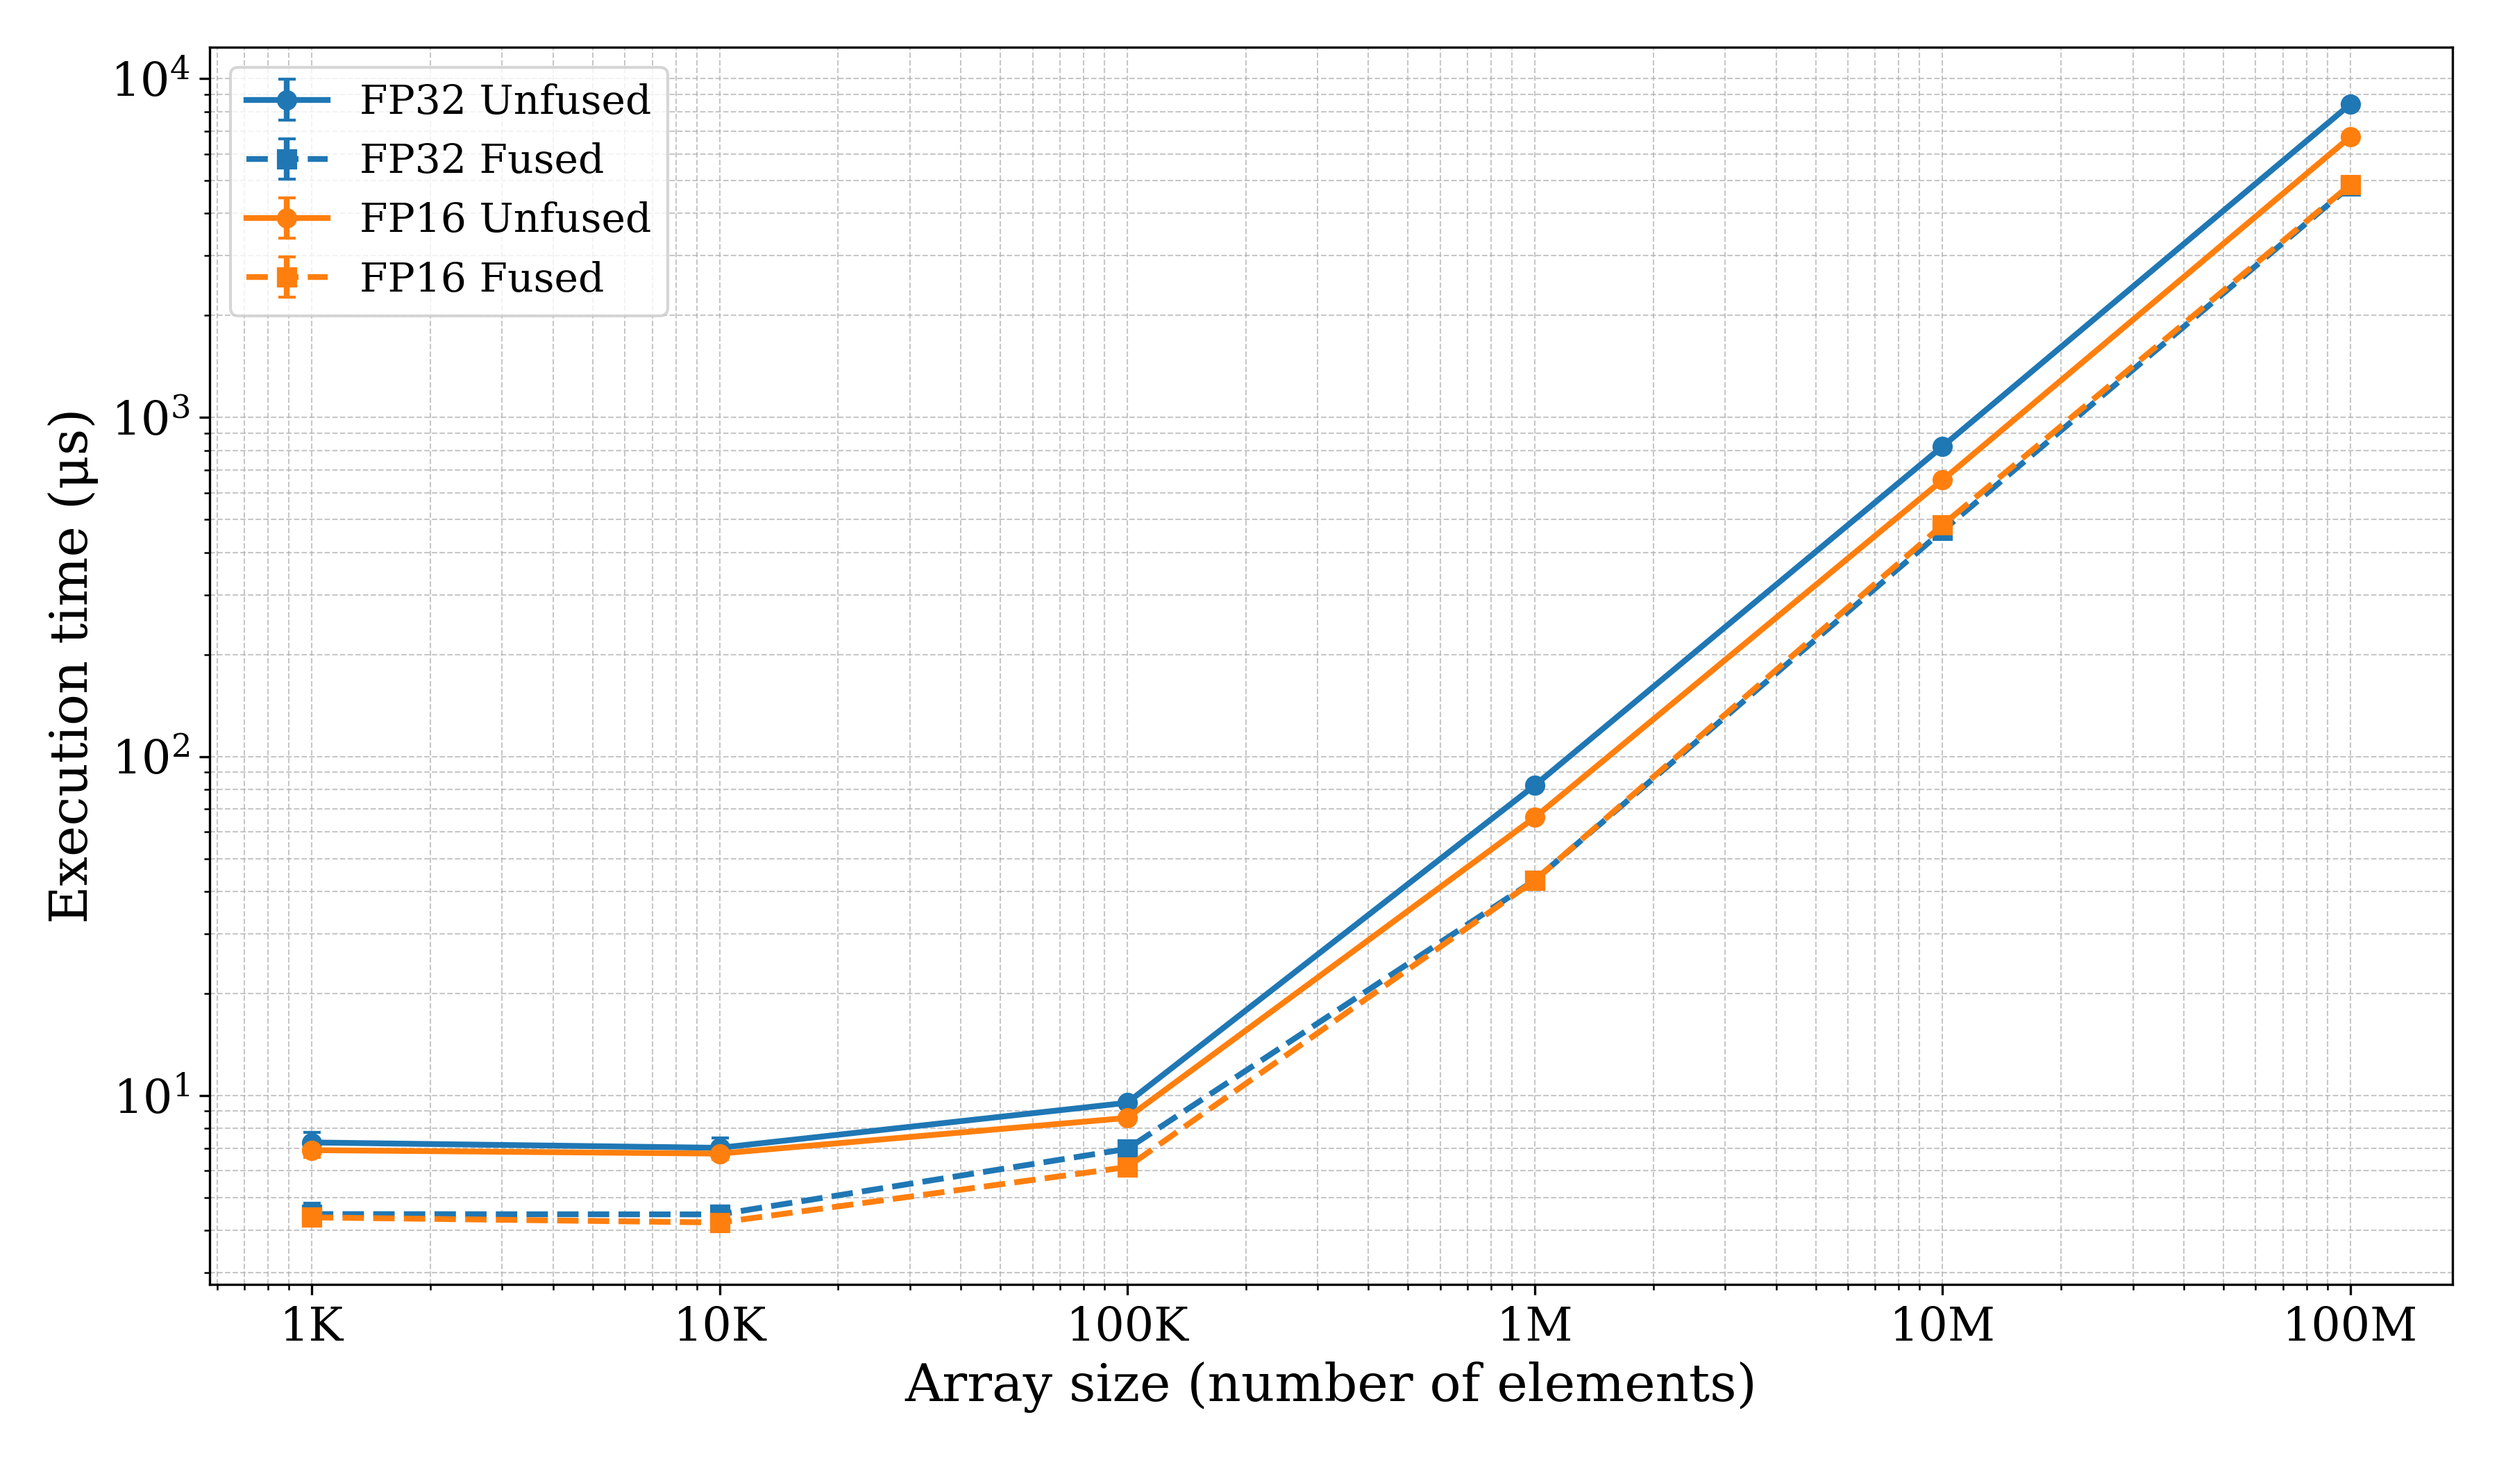
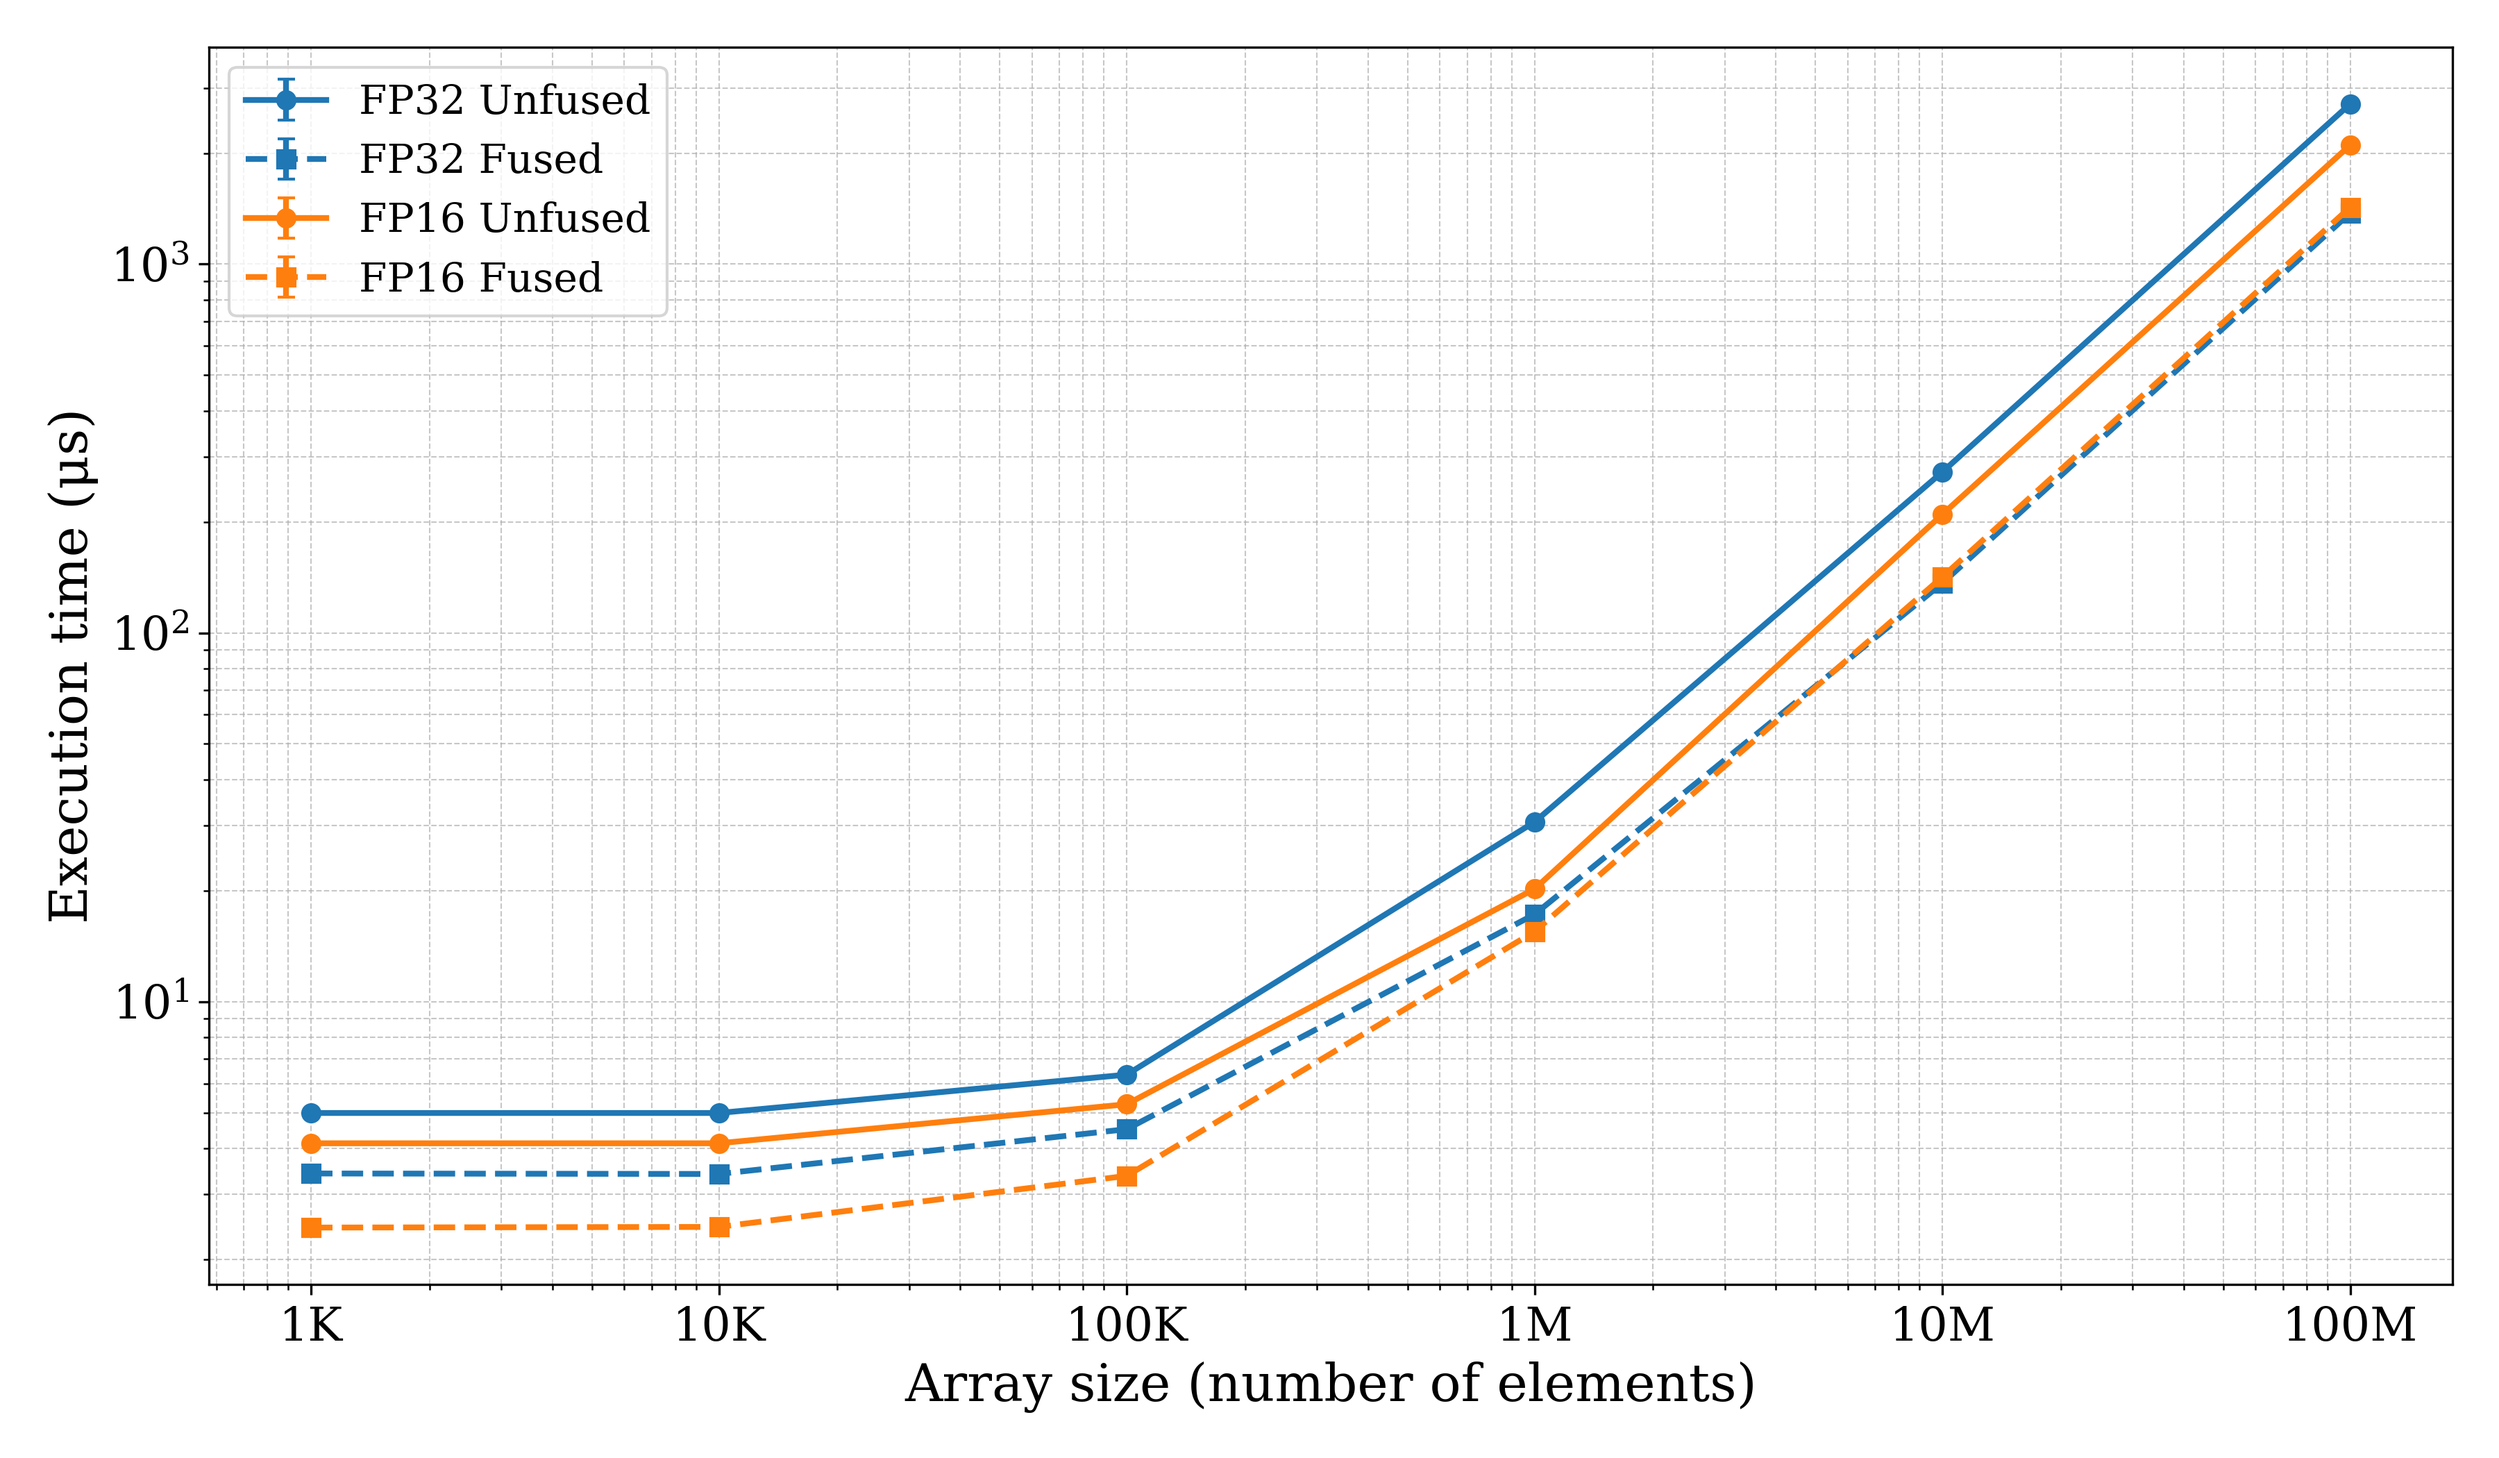
fresh map_reduce values and plots

diff --git a/scripts/data_rtx3080.py b/scripts/data_rtx3080.py
@@ -95,58 +95,74 @@ RELU_FP16 = {
 # Map Reduce - Naive Implementation
 # ==============================================================================
 MAP_REDUCE_NAIVE_FP32 = {
-    "unfused": [7.28, 26.62, 225.23, 2137.07, 20700.56, 207009.99],
-    "unfused_std": [1.33, 5.85, 50.39, 210.35, 10.63, 57.81],
-    "fused": [5.17, 24.91, 222.38, 2031.75, 20284.83, 202786.55],
-    "fused_std": [1.04, 5.35, 50.04, 1.08, 11.45, 22.91],
-    "speedup": [1.42, 1.07, 1.01, 1.05, 1.02, 1.02],
-    "speedup_std": [0.13, 0.02, 0.01, 0.10, 0.00, 0.00],
-    "bw_unfused": [2.30, 6.33, 7.49, 7.72, 7.92, 7.92],
-    "bw_unfused_std": [0.30, 0.89, 1.07, 0.61, 0.01, 0.00],
-    "bw_fused": [1.63, 3.38, 3.80, 4.03, 4.04, 4.04],
-    "bw_fused_std": [0.24, 0.48, 0.54, 0.00, 0.00, 0.00],
+    "unfused": [5.96, 21.57, 175.93, 1710.35, 16942.18, 169503.46],
+    "unfused_std": [0.32, 1.02, 8.77, 28.87, 179.32, 1534.72],
+    "fused": [4.40, 19.78, 173.74, 1683.70, 16801.18, 168117.13],
+    "fused_std": [0.22, 0.99, 8.67, 16.07, 178.54, 1480.87],
+    "speedup": [1.36, 1.09, 1.01, 1.02, 1.01, 1.01],
+    "speedup_std": [0.03, 0.01, 0.00, 0.02, 0.00, 0.00],
+    "bw_unfused": [2.76, 7.61, 9.33, 9.58, 9.67, 9.67],
+    "bw_unfused_std": [0.14, 0.32, 0.41, 0.16, 0.11, 0.09],
+    "bw_fused": [1.86, 4.15, 4.72, 4.87, 4.88, 4.88],
+    "bw_fused_std": [0.08, 0.19, 0.21, 0.05, 0.05, 0.04],
 }
 
 MAP_REDUCE_NAIVE_FP16 = {
-    "unfused": [324.01, 5494.52, 30780.92, 31449.54, 37759.46, 101051.98],
-    "unfused_std": [73.96, 8.71, 158.17, 212.04, 171.08, 82.03],
-    "fused": [321.53, 5491.84, 30387.62, 30983.99, 37356.65, 98912.58],
-    "fused_std": [74.42, 6.11, 178.09, 147.64, 226.14, 47.93],
-    "speedup": [1.01, 1.00, 1.01, 1.02, 1.01, 1.02],
-    "speedup_std": [0.01, 0.00, 0.00, 0.01, 0.01, 0.00],
-    "bw_unfused": [0.03, 0.01, 0.03, 0.26, 2.17, 8.11],
-    "bw_unfused_std": [0.00, 0.00, 0.00, 0.00, 0.01, 0.01],
-    "bw_fused": [0.01, 0.01, 0.01, 0.13, 1.09, 4.14],
-    "bw_fused_std": [0.00, 0.00, 0.00, 0.00, 0.01, 0.00],
+    "unfused": [269.26, 4966.73, 58824.14, 87643.38, 91545.44, 143107.94],
+    "unfused_std": [1.12, 17.95, 788.98, 349.27, 509.41, 489.78],
+    "fused": [267.93, 4950.04, 58692.16, 86558.16, 91192.11, 141140.87],
+    "fused_std": [1.09, 17.27, 753.76, 303.89, 616.44, 448.23],
+    "speedup": [1.00, 1.00, 1.00, 1.01, 1.00, 1.01],
+    "speedup_std": [0.01, 0.00, 0.02, 0.00, 0.01, 0.01],
+    "bw_unfused": [0.03, 0.02, 0.01, 0.09, 0.90, 5.72],
+    "bw_unfused_std": [0.00, 0.00, 0.00, 0.00, 0.01, 0.02],
+    "bw_fused": [0.02, 0.01, 0.01, 0.05, 0.45, 2.90],
+    "bw_fused_std": [0.00, 0.00, 0.00, 0.00, 0.00, 0.01],
 }
 
 # ==============================================================================
 # Map Reduce - Block-level Implementation
 # ==============================================================================
 MAP_REDUCE_BLOCK_FP32 = {
-    "unfused": [7.27, 7.01, 9.52, 82.28, 822.24, 8396.65],
-    "unfused_std": [0.53, 0.49, 0.10, 1.51, 5.76, 68.93],
-    "fused": [4.47, 4.46, 6.96, 43.22, 463.65, 4818.32],
-    "fused_std": [0.34, 0.26, 0.06, 0.61, 9.38, 88.30],
-    "speedup": [1.63, 1.57, 1.37, 1.91, 1.77, 1.74],
-    "speedup_std": [0.12, 0.06, 0.01, 0.05, 0.03, 0.02],
-    "bw_unfused": [2.26, 23.46, 172.14, 199.17, 199.27, 195.14],
-    "bw_unfused_std": [0.16, 1.57, 1.70, 3.63, 1.40, 1.62],
-    "bw_fused": [1.84, 18.43, 117.68, 189.57, 176.75, 170.07],
-    "bw_fused_std": [0.14, 1.02, 0.91, 2.60, 3.66, 3.17],
+    "unfused": [4.99, 4.99, 6.34, 30.71, 273.12, 2719.14],
+    "unfused_std": [0.07, 0.03, 0.06, 0.12, 0.91, 13.96],
+    "fused": [3.42, 3.41, 4.51, 17.25, 136.45, 1376.45],
+    "fused_std": [0.05, 0.04, 0.05, 0.10, 1.70, 14.07],
+    "speedup": [1.46, 1.47, 1.41, 1.78, 2.00, 1.98],
+    "speedup_std": [0.04, 0.01, 0.02, 0.01, 0.02, 0.01],
+    "bw_unfused": [3.29, 32.83, 258.58, 533.46, 599.89, 602.56],
+    "bw_unfused_std": [0.05, 0.17, 2.35, 2.12, 2.00, 3.11],
+    "bw_fused": [2.40, 24.05, 181.63, 474.82, 600.47, 595.21],
+    "bw_fused_std": [0.04, 0.27, 2.02, 2.70, 7.53, 6.16],
 }
 
 MAP_REDUCE_BLOCK_FP16 = {
-    "unfused": [6.90, 6.74, 8.59, 66.17, 654.18, 6726.15],
-    "unfused_std": [0.34, 0.27, 0.08, 0.68, 2.13, 14.88],
-    "fused": [4.37, 4.22, 6.15, 43.17, 482.28, 4860.17],
-    "fused_std": [0.19, 0.16, 0.04, 0.67, 1.06, 5.93],
-    "speedup": [1.58, 1.60, 1.40, 1.53, 1.36, 1.38],
-    "speedup_std": [0.07, 0.05, 0.02, 0.03, 0.01, 0.00],
-    "bw_unfused": [1.19, 12.17, 95.43, 123.82, 125.23, 121.80],
-    "bw_unfused_std": [0.06, 0.46, 0.90, 1.25, 0.41, 0.27],
-    "bw_fused": [0.94, 9.72, 66.64, 94.90, 84.93, 84.28],
-    "bw_fused_std": [0.04, 0.36, 0.41, 1.43, 0.19, 0.10],
+    "unfused": [4.13, 4.13, 5.27, 20.21, 209.65, 2102.75],
+    "unfused_std": [0.02, 0.01, 0.02, 0.05, 0.27, 3.60],
+    "fused": [2.44, 2.45, 3.37, 15.49, 141.81, 1426.49],
+    "fused_std": [0.01, 0.01, 0.01, 0.02, 0.50, 11.39],
+    "speedup": [1.70, 1.69, 1.56, 1.30, 1.48, 1.47],
+    "speedup_std": [0.01, 0.01, 0.01, 0.01, 0.00, 0.01],
+    "bw_unfused": [1.99, 19.84, 155.40, 405.31, 390.75, 389.58],
+    "bw_unfused_std": [0.01, 0.07, 0.47, 0.96, 0.51, 0.67],
+    "bw_fused": [1.69, 16.77, 121.54, 264.43, 288.84, 287.15],
+    "bw_fused_std": [0.01, 0.08, 0.32, 0.40, 1.02, 2.29],
+}
+
+# ==============================================================================
+# Map Reduce - Mixed Precision Implementation
+# ==============================================================================
+MAP_REDUCE_MIXED = {
+    "unfused": [5.04, 5.02, 6.31, 21.74, 207.78, 2057.06],
+    "unfused_std": [0.02, 0.03, 0.04, 0.25, 0.34, 0.91],
+    "fused": [3.46, 3.49, 4.40, 16.64, 140.03, 1398.22],
+    "fused_std": [0.03, 0.07, 0.03, 0.20, 0.63, 5.95],
+    "speedup": [1.46, 1.44, 1.43, 1.31, 1.48, 1.47],
+    "speedup_std": [0.01, 0.03, 0.02, 0.01, 0.01, 0.01],
+    "bw_unfused": [1.63, 16.32, 129.81, 376.94, 394.27, 398.24],
+    "bw_unfused_std": [0.01, 0.10, 0.91, 4.28, 0.65, 0.18],
+    "bw_fused": [1.18, 11.74, 93.07, 246.18, 292.50, 292.95],
+    "bw_fused_std": [0.01, 0.22, 0.75, 2.97, 1.33, 1.25],
 }
 
 # ==============================================================================
@@ -158,4 +174,5 @@ PLOT_CONFIG = {
     "relu": {"speedup_y_max": 4.25, "bandwidth_y_max": 1500},
     "map_reduce_naive": {"speedup_y_max": 1.75, "bandwidth_y_max": 20},
     "map_reduce_block": {"speedup_y_max": 2.25, "bandwidth_y_max": 300},
+    "map_reduce_mixed": {"speedup_y_max": 1.75, "bandwidth_y_max": 500},
 }
